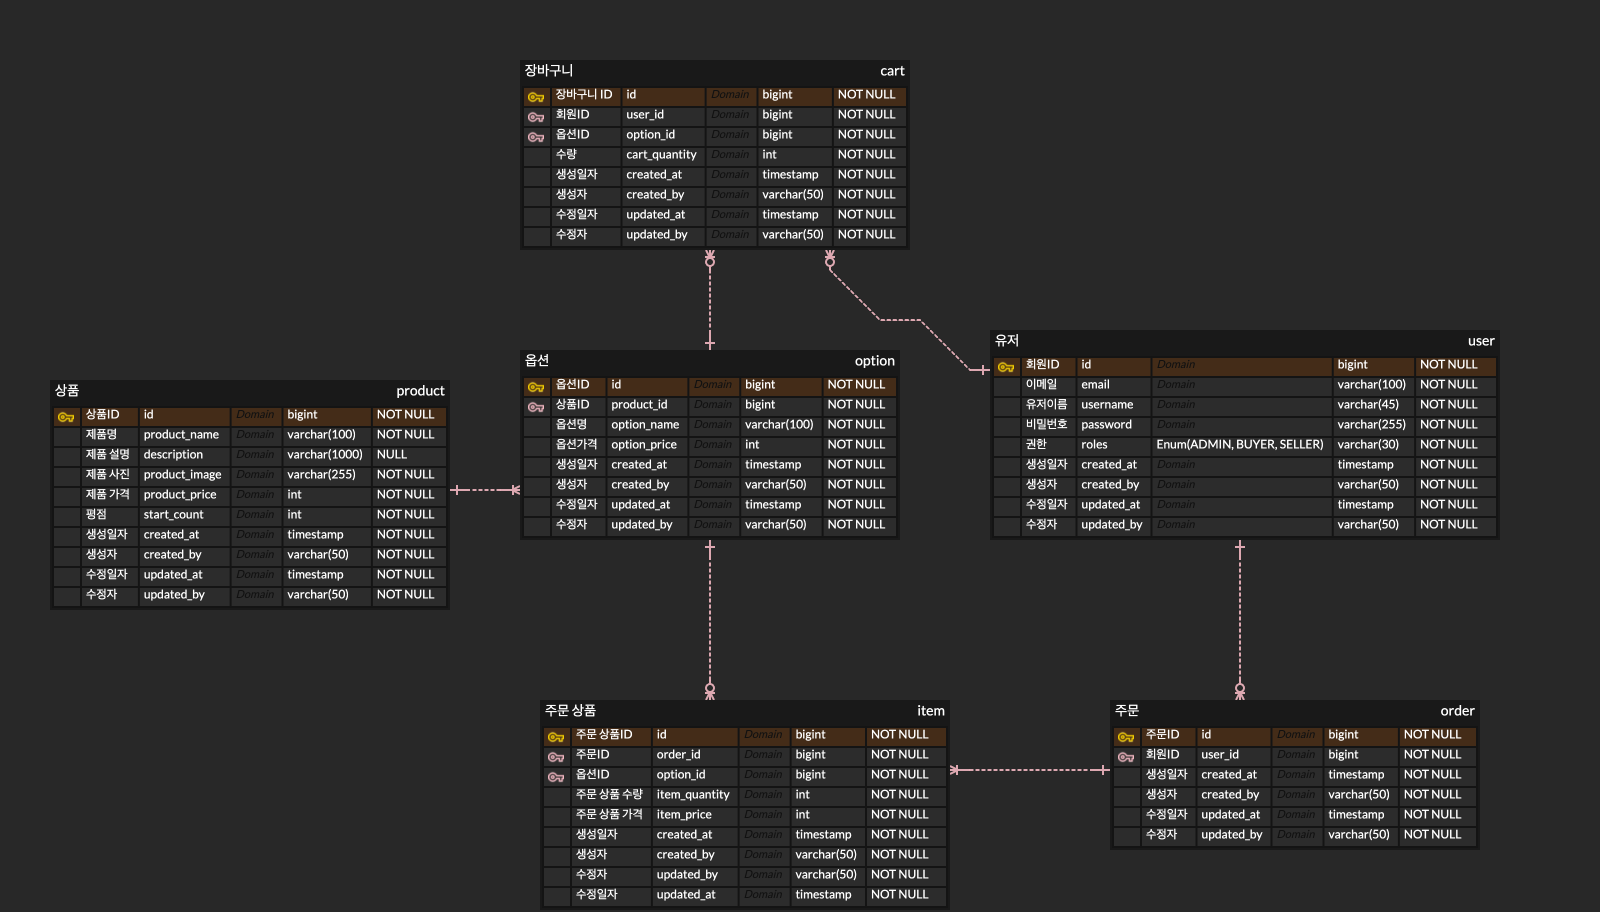
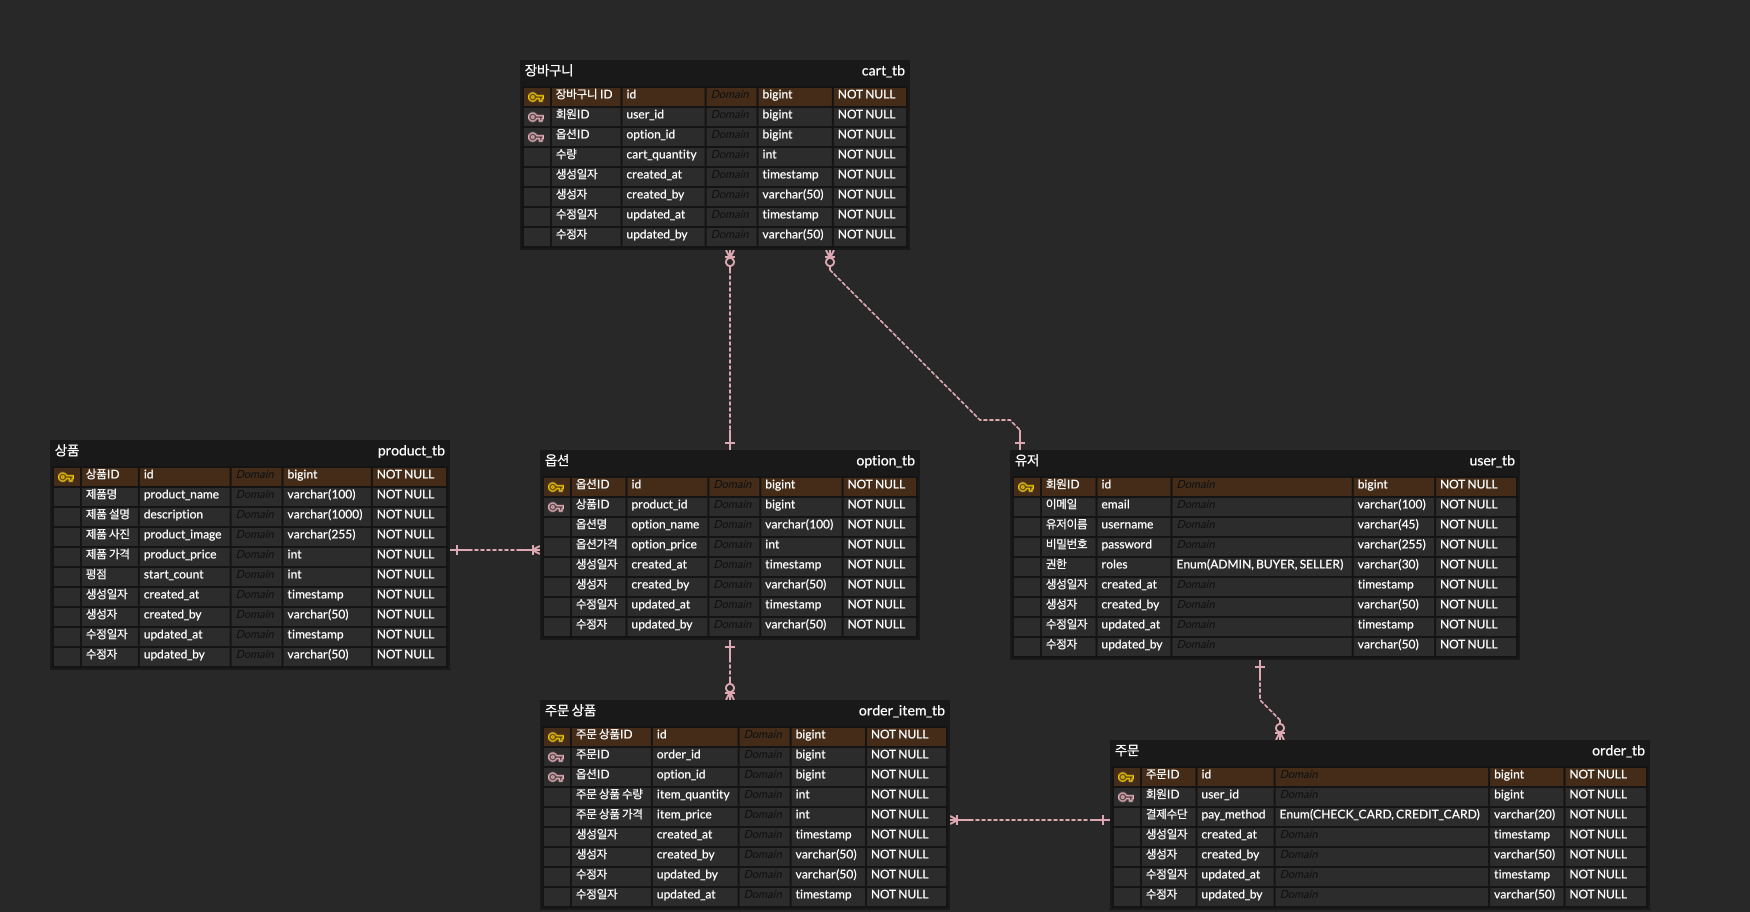
doc: Change image files
- 작업 중 ERD가 수정되어 설명 이미지 파일을 수정했습니다.

diff --git a/1week/과제4_데이터베이스_ERD/README.md b/1week/과제4_데이터베이스_ERD/README.md
@@ -79,4 +79,4 @@
 - 그렇기에 주문한 상품들에 대해서 저장할 다른 테이블이 필요하게 됩니다.
 - 장바구니 테이블의 컬럼들과 거의 같은 item 테이블을 만들어 이를 해결했습니다.
 - 이때, 장바구니 가격 컬럼처럼 옵션 가격 변경 시 옵션ID에 해당하는 모든 주문 상품 가격 데이터를 수정할 필요가 없다고 판단됩니다.
-- 이는 주문 조회 시 주문한 상품의 가격이 변동되면 사용자가 오히려 혼란을 느낄 가능성이 크다고 생각됩니다.
+- 이는 주문 조회 시 주문한 상품의 가격이 변동되면 사용자가 오히려 혼란을 느낄 가능성이 크다고 생각되어 한번 주문 시 옵션의 가격에 영향받지 않도록 했습니다.
